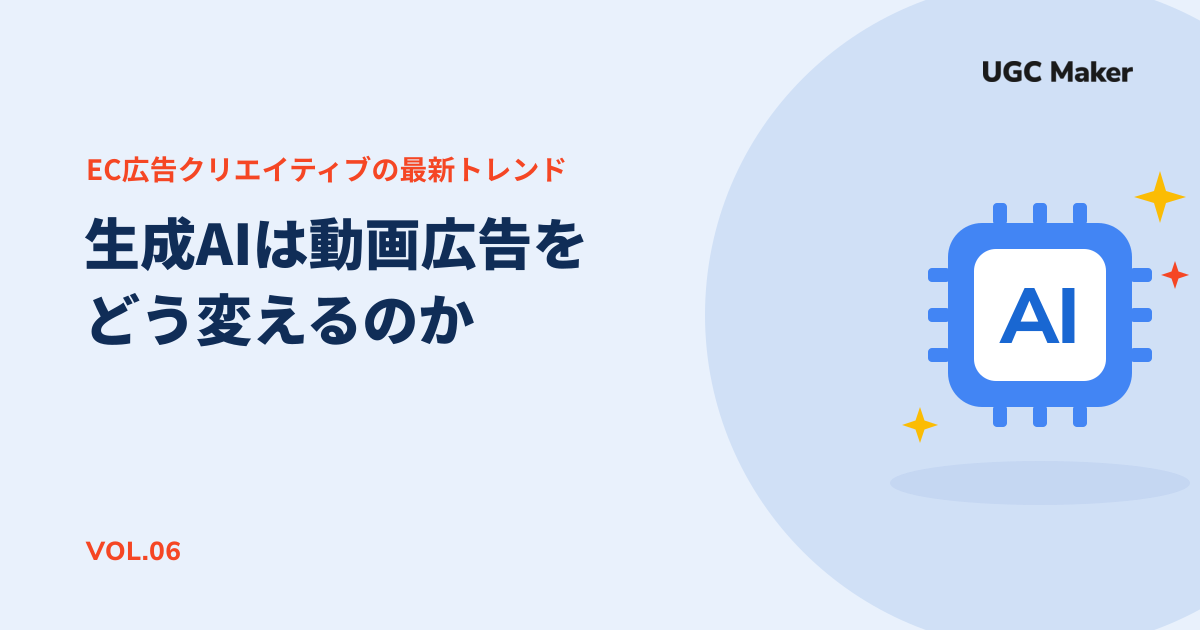
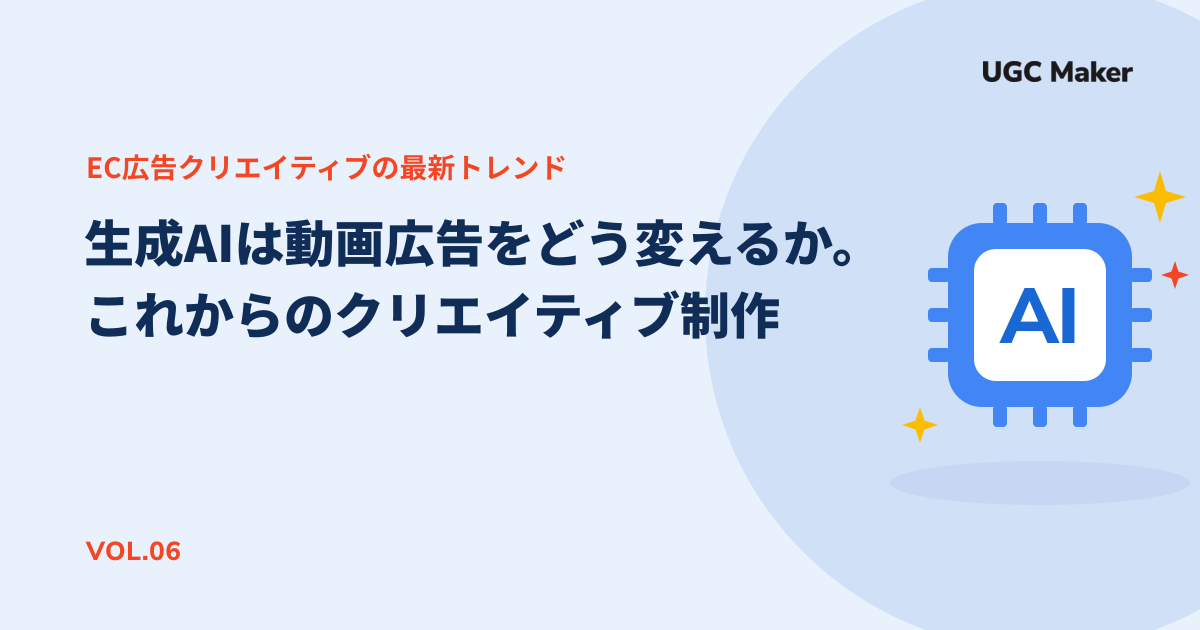
fix(column): col4-6 OGPタイトルを記事H1と一致（デザインルール準拠）
- OGPタイトルを独自短縮文言から記事H1そのままの2行折りに変更（第1回方式・句点は1行目末）
  - col4: 勝てる動画クリエイティブの「型」。/ 冒頭2秒で決まる構成設計
  - col5: クリエイティブ疲弊とABテスト。/ 成果を伸ばし続ける改善の回し方
  - col6: 生成AIは動画広告をどう変えるか。/ これからのクリエイティブ制作
- 長いタイトル向けにサイズを50へ調整（イラストと非干渉）
- COLUMN_DESIGN.md のOGPタイトル規定を「H1一致」に更新

Changed region(s): [[0.0617, 0.3317, 0.7092, 0.573], [0.0617, 0.2413, 0.4008, 0.3016], [0.4008, 0.2413, 0.4933, 0.3016]]

diff --git a/COLUMN_DESIGN.md b/COLUMN_DESIGN.md
@@ -51,14 +51,15 @@
 | 装飾円 | 右側に大きな円（右端で見切れる） | – | – | `#D0E0F6` | 中心 ≈ (1040, 315), 半径 ≈ 335 |
 | ロゴ | `UGC Maker`（正式ワードマーク） | Nunito Sans **900** / letter-spacing -2相当 | 幅 ≈ 150px | **`#1A1A1A`（黒）** | 右上・右端 x≈1133 / 縦中心 y≈72 |
 | eyebrow | `EC広告クリエイティブの最新トレンド`（固定） | Noto Sans JP 700 | 28 | `#F54624` | x86 / y180 |
-| タイトル | 記事タイトル（2行・パンチ重視） | Noto Sans JP **900** | 56 | `#102D57` | x84 / 1行目 y265・2行目 y341（行送り76） |
+| タイトル | 記事タイトル（H1と一致・2行） | Noto Sans JP **900** | 56（長い場合50前後） | `#102D57` | x84 / 1行目 y262・2行目 y334（行送り72） |
 | VOL | `VOL.0N` | Nunito Sans 800 | 26 | `#F54624` | x86 / y560（左下） |
 | イラスト | 記事テーマのフラットイラスト | – | – | 下記パレット | 円の中（translate ≈ 1040,315） |
 
 ### OGPタイトルの作り方
-- **本文H1の要約版**でよい（第2回が好例: H1より短い）。1行 **概ね10文字以内**で2行に収める。
-- **棒線「――」は使わない**。2要素を繋ぐ場合は句点「。」で区切る（第1回「画像広告はもう限界か。動画が成果を出す時代へ」に倣う）。
-- 円のイラスト（左端 ≈ x830〜）と被らないよう、タイトルは概ね x84〜780 に収める。
+- **記事H1と一致させる**（第1回・第3回方式: H1をそのまま2行に折る）。句点「。」は **1行目末尾**に置く（第1回「画像広告はもう限界か。／動画が成果を出す時代へ」に倣う）。
+- H1が長く2行に収まらない場合のみ要約する（第2回が例外）。
+- **棒線「――」は使わない**（句点「。」区切り。本文中の挿入ダッシュは可）。
+- 文字数に応じてフォントサイズを調整（標準56、長い場合は50前後まで縮小）。円のイラスト（左端 ≈ x830〜900）と被らないよう、タイトルは概ね x84〜810 に収める。
 
 ### イラスト方針（フラットイラスト）
 - スタイル: 角丸・面塗りのフラット。記事テーマを象徴するモチーフ1点を円内に配置。
